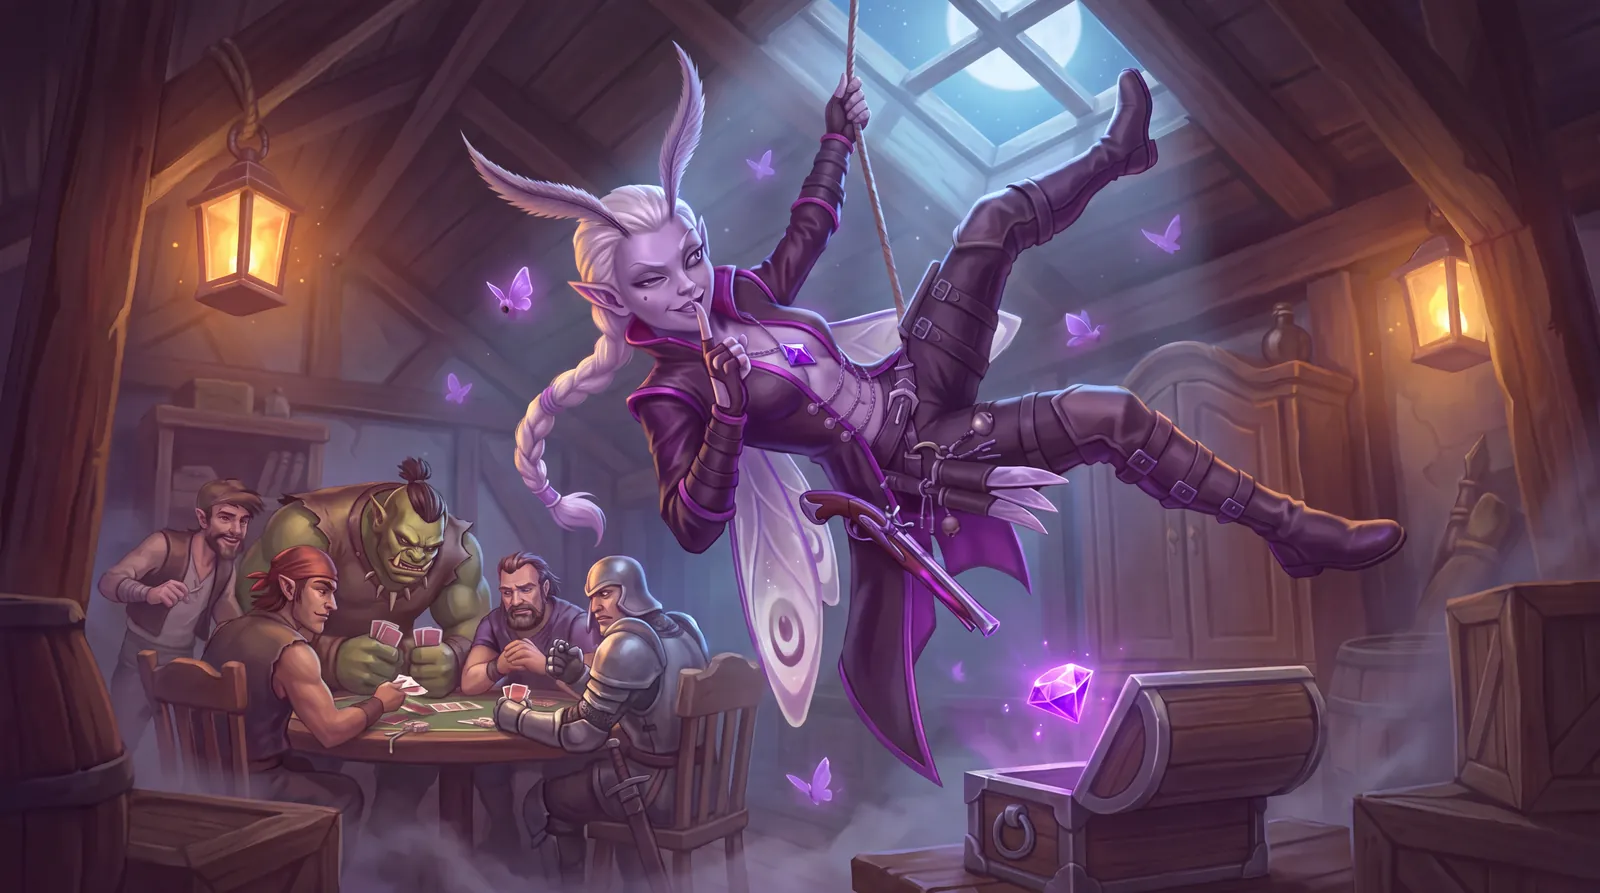
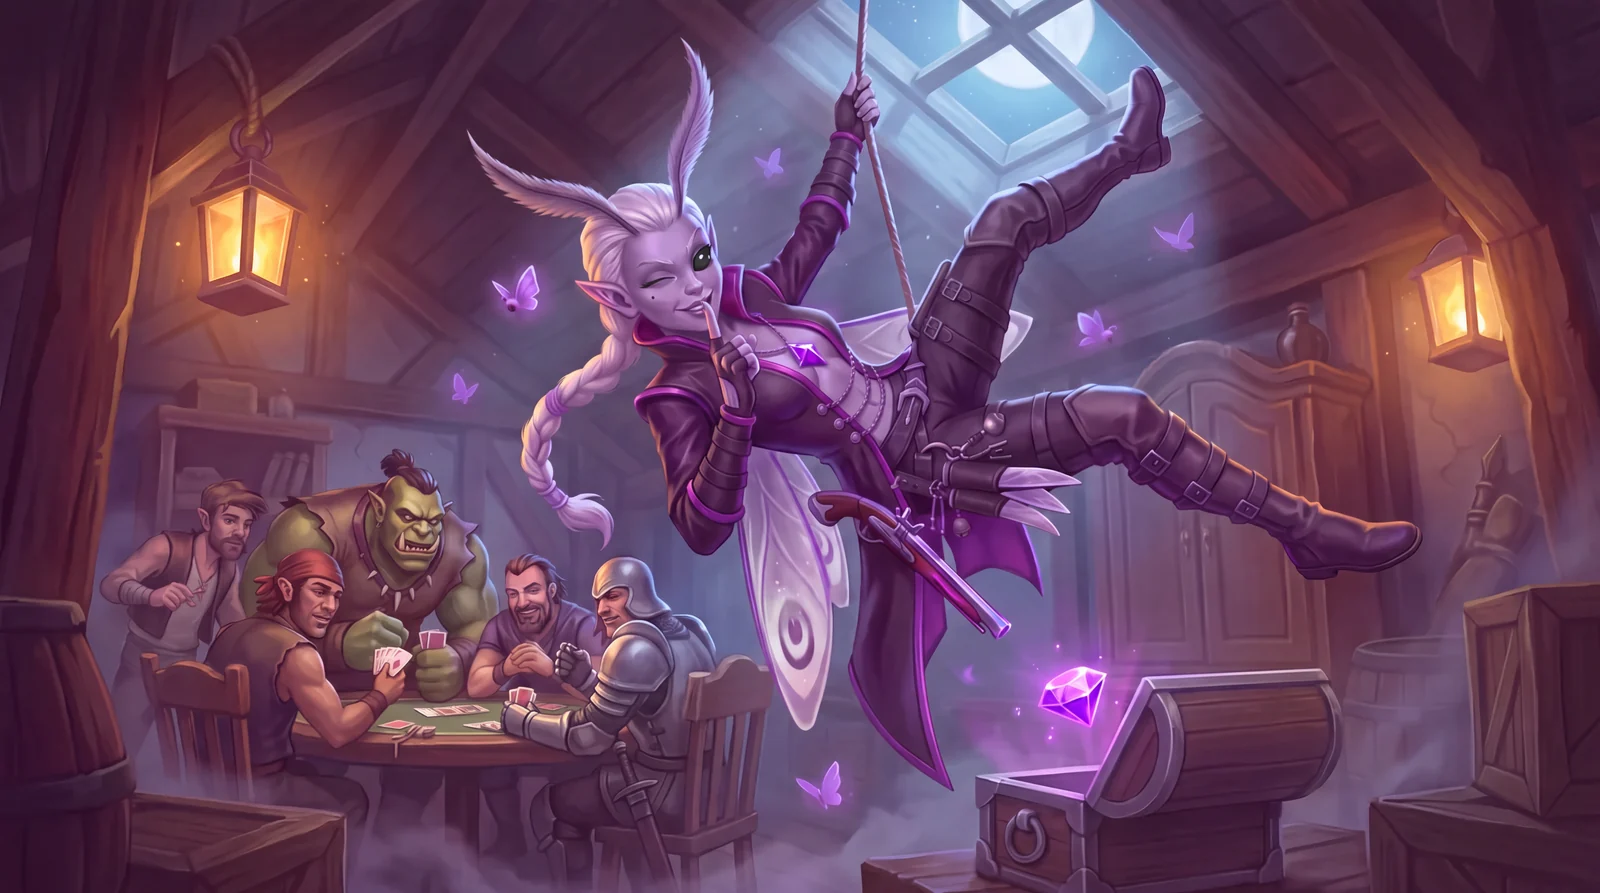
New Sable splash; How it works heading: Write your legend.
Claude-Session: https://claude.ai/code/session_015vSSPmpJoF22Rm1LS1od6V

diff --git a/presskit.html b/presskit.html
@@ -11,7 +11,7 @@
 <link rel="apple-touch-icon" href="/assets/img/apple-touch-icon.png">
 <meta property="og:title" content="Project Boki press kit">
 <meta property="og:image" content="https://projectboki.com/assets/img/og.jpg?v=8">
-<link rel="stylesheet" href="assets/style.css?v=154">
+<link rel="stylesheet" href="assets/style.css?v=155">
 <link rel="canonical" href="https://projectboki.com/presskit.html">
 <link rel="manifest" href="/site.webmanifest">
 </head>
@@ -77,7 +77,7 @@
           <a href="assets/img/hunters/ryzz-2400.webp" target="_blank"><img src="assets/img/hunters/ryzz-960.webp" alt="Sparkle splash art" loading="lazy"><span class="pk-cap">Sparkle</span></a>
           <a href="assets/img/hunters/grimble-2400.webp?v=2026-11-09a" target="_blank"><img src="assets/img/hunters/grimble-960.webp?v=2026-11-09a" alt="Grimble splash art" loading="lazy"><span class="pk-cap">Grimble</span></a>
           <a href="assets/img/hunters/pip-2400.webp" target="_blank"><img src="assets/img/hunters/pip-960.webp" alt="Meeko splash art" loading="lazy"><span class="pk-cap">Meeko</span></a>
-          <a href="assets/img/hunters/sable-2400.webp?v=2026-11-08c" target="_blank"><img src="assets/img/hunters/sable-960.webp?v=2026-11-08c" alt="Sable splash art" loading="lazy"><span class="pk-cap">Sable</span></a>
+          <a href="assets/img/hunters/sable-2400.webp?v=2026-11-09b" target="_blank"><img src="assets/img/hunters/sable-960.webp?v=2026-11-09b" alt="Sable splash art" loading="lazy"><span class="pk-cap">Sable</span></a>
           <a href="assets/img/hunters/lisette-2400.webp" target="_blank"><img src="assets/img/hunters/lisette-960.webp" alt="Lace splash art" loading="lazy"><span class="pk-cap">Lace</span></a>
           <a href="assets/img/hunters/motley-2400.webp" target="_blank"><img src="assets/img/hunters/motley-960.webp" alt="Motley splash art" loading="lazy"><span class="pk-cap">Motley</span></a>
         </div>
@@ -117,6 +117,6 @@
   <div class="consent-b"><button class="btn btn-glass btn-sm" type="button" data-no>Decline</button><button class="btn btn-solid btn-sm" type="button" data-yes>Accept</button></div>
 </div>
 
-<script src="assets/site.js?v=139"></script>
+<script src="assets/site.js?v=140"></script>
 </body>
 </html>

diff --git a/index.html b/index.html
@@ -21,7 +21,7 @@
 <link rel="preload" href="assets/fonts/LilitaOne.woff2" as="font" type="font/woff2" crossorigin>
 <link rel="preload" as="image" href="assets/img/wordmark-boki-1280.webp" imagesrcset="assets/img/wordmark-boki-640.webp 640w, assets/img/wordmark-boki-1280.webp 1280w, assets/img/wordmark-boki-2000.webp 2000w" imagesizes="(max-width: 720px) 90vw, 720px">
 
-<link rel="stylesheet" href="assets/style.css?v=154">
+<link rel="stylesheet" href="assets/style.css?v=155">
 <script>
   // Hold the hero until the display font is in, so nothing jumps on load.
   (function (d) {
@@ -133,7 +133,7 @@
   </div>
 </section>
 <section id="how" class="how" aria-label="How it works">
-  <div class="wrap"><header class="head" data-r="stagger"><h2>Every run writes your story.</h2></header></div>
+  <div class="wrap"><header class="head" data-r="stagger"><h2>Write your legend.</h2></header></div>
   <div class="how-stack">
     <article class="step" style="--i:0">
       <div class="step-card">
@@ -237,6 +237,6 @@
   <symbol id="i-play" viewBox="0 0 24 24"><path d="M7 4.5v15a1 1 0 0 0 1.5.86l12.4-7.5a1 1 0 0 0 0-1.72L8.5 3.64A1 1 0 0 0 7 4.5Z"/></symbol>
 </svg>
 
-<script src="assets/site.js?v=140"></script>
+<script src="assets/site.js?v=141"></script>
 </body>
 </html>

diff --git a/privacy.html b/privacy.html
@@ -9,7 +9,7 @@
 <link rel="icon" href="/favicon.ico" sizes="any">
 <link rel="icon" href="/assets/img/favicon.png" type="image/png">
 <link rel="apple-touch-icon" href="/assets/img/apple-touch-icon.png">
-<link rel="stylesheet" href="assets/style.css?v=154">
+<link rel="stylesheet" href="assets/style.css?v=155">
 <link rel="canonical" href="https://projectboki.com/privacy.html">
 <link rel="manifest" href="/site.webmanifest">
 </head>
@@ -71,6 +71,6 @@
   <div class="consent-b"><button class="btn btn-glass btn-sm" type="button" data-no>Decline</button><button class="btn btn-solid btn-sm" type="button" data-yes>Accept</button></div>
 </div>
 
-<script src="assets/site.js?v=139"></script>
+<script src="assets/site.js?v=140"></script>
 </body>
 </html>

diff --git a/assets/site.js b/assets/site.js
@@ -265,7 +265,7 @@ const pick = document.getElementById("h-pick");
 if (pick) {
   const art = document.getElementById("h-art");
   const $ = (id) => document.getElementById(id);
-  const ART_V = "2026-11-09a";
+  const ART_V = "2026-11-09b";
   const src = (id, w) => `assets/img/hunters/${id}-${w}.webp?v=${ART_V}`;
   const set = (id) => `${src(id, 960)} 960w, ${src(id, 1600)} 1600w, ${src(id, 2400)} 2400w`;
   let current = 0;

diff --git a/404.html b/404.html
@@ -7,7 +7,7 @@
 <link rel="icon" href="/favicon.ico" sizes="any">
 <link rel="icon" href="/assets/img/favicon.png" type="image/png">
 <link rel="apple-touch-icon" href="/assets/img/apple-touch-icon.png">
-<link rel="stylesheet" href="/assets/style.css?v=154">
+<link rel="stylesheet" href="/assets/style.css?v=155">
 </head>
 <body>
 <main class="nf">
